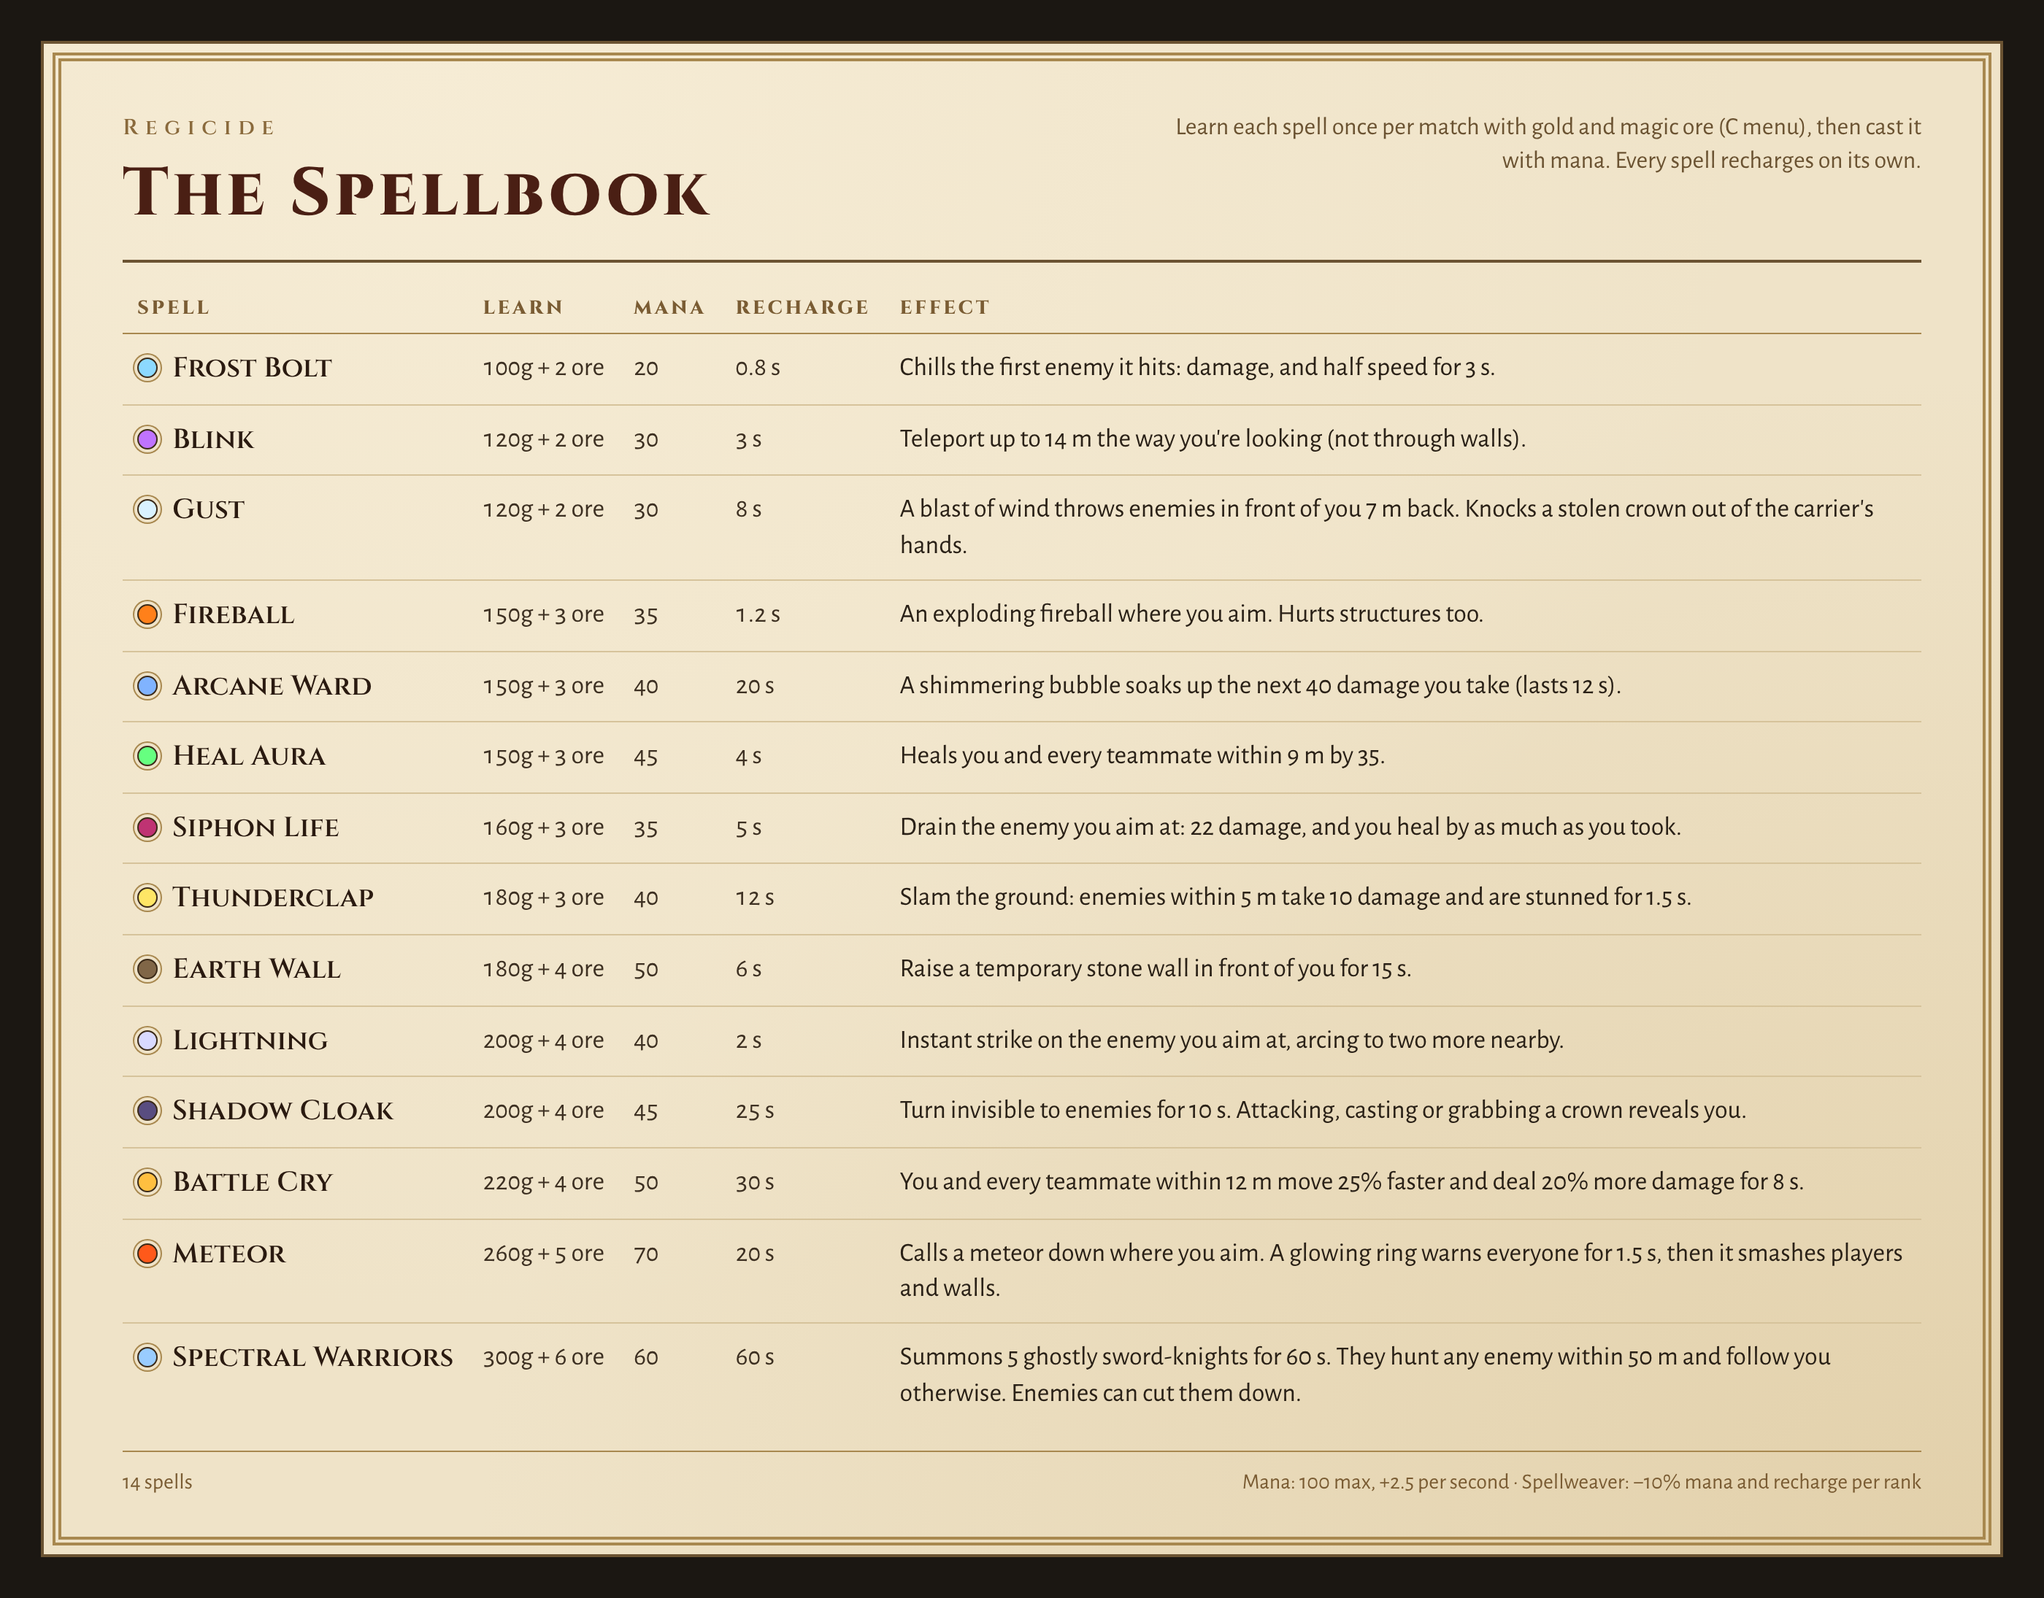
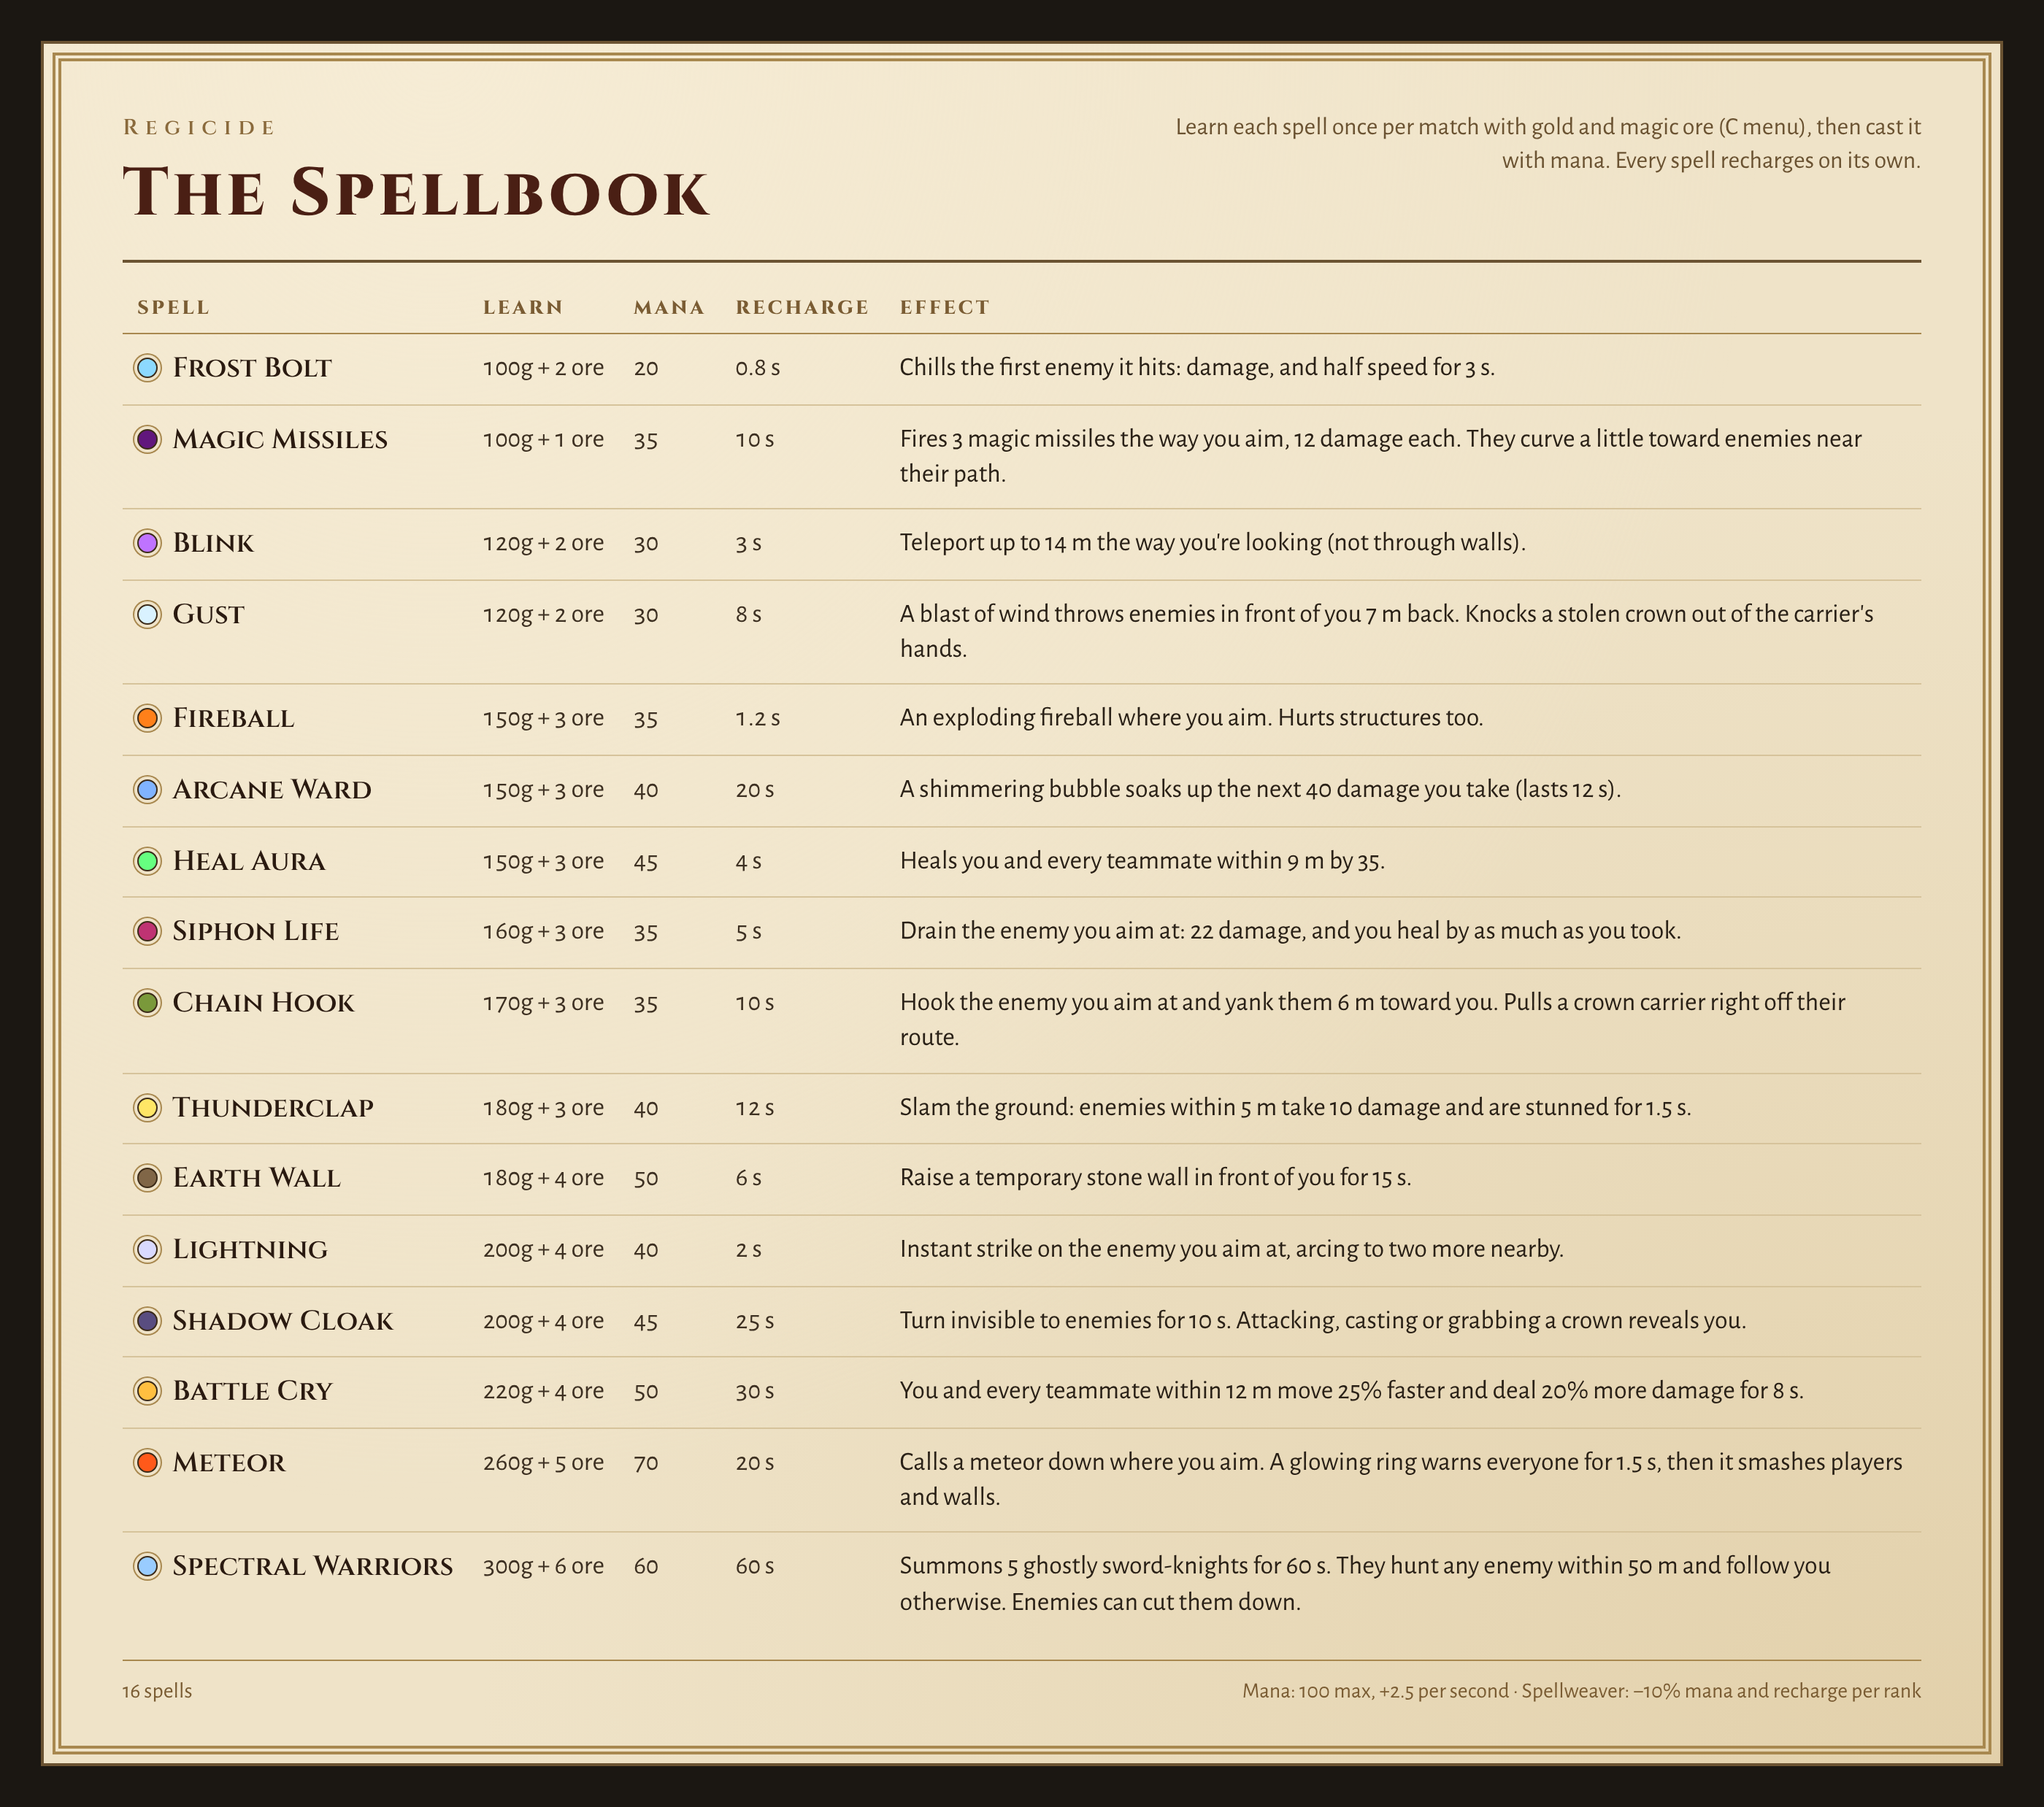
Add Magic Missiles and Chain Hook from the Spell Forge
- Magic Missiles: 3 missiles, 12 damage each (33 to walls), simulated on the
  server with gentle homing toward enemies near the path; they skim over
  rising ground and land their hits when they arrive
- Chain Hook: 12 damage and a 6 m pull toward the caster, stopping at arm's
  length and at walls; works on enemy spectral warriors too
- Bots learn and use both (defenders hook crown carriers)
- Gameplay tests, docs, and a regenerated spellbook image

Claude-Session: https://claude.ai/code/session_011M1vH1jhAq6VSKpxzSgXE7

Changed region(s): [[0.0311, 0.0, 0.9943, 0.9936], [0.2175, 0.3726, 0.3418, 0.6521]]

diff --git a/docs/DESIGN.md b/docs/DESIGN.md
@@ -171,6 +171,8 @@ Casting costs mana (100 max, +2.5/s; mana potions restore 60).
 | Battle Cry | 220g + 4 ore | 50 | You and teammates within 12 m: +25% speed, +20% damage for 8 s. 30 s recharge |
 | Shadow Cloak | 200g + 4 ore | 45 | Invisible to enemies (and their bots, ballistas and warriors) for 10 s; allies see a faint shape. Attacking, casting or grabbing a crown reveals you; can't be cast while carrying one. 25 s recharge |
 | Arcane Ward | 150g + 3 ore | 40 | A bubble soaks up the next 40 damage (lasts 12 s). 20 s recharge |
+| Magic Missiles | 100g + 1 ore | 35 | 3 missiles, 12 damage each (about 33 to walls); they curve toward enemies near their path and skim over slopes. 10 s recharge. *Designed in the Spell Forge.* |
+| Chain Hook | 170g + 3 ore | 35 | 12 damage to the enemy you aim at (or an enemy warrior) and drags them 6 m toward you, stopping at arm's length; walls stop the pull. 10 s recharge. *Designed in the Spell Forge.* |
 
 Each spell has its own recharge; casting only keeps your hands busy for up to 1 s.
 

diff --git a/README.md b/README.md
@@ -82,7 +82,8 @@ The default port is **24565** (UDP). Open it on the host's router to play over t
 - **Magic.** Learn spells with gold and magic ore — fireball, frost bolt (slows), chain
   lightning, heal aura, blink, earth wall, gust (knocks crowns loose), meteor, spectral
   warriors (summons 5 ghost knights), thunderclap (stun), siphon life, battle cry,
-  shadow cloak (invisibility) and arcane ward — and cast them with mana. Mana regenerates;
+  shadow cloak (invisibility), arcane ward, magic missiles (homing) and chain hook (pulls
+  enemies to you) — and cast them with mana. Mana regenerates;
   mana potions (brewed from magic ore) top it up.
 - **Shields.** Craft a wooden or iron shield and hold right click to block hits from the
   front. Time it right as a sword lands to parry: no damage, and the attacker is stunned.
